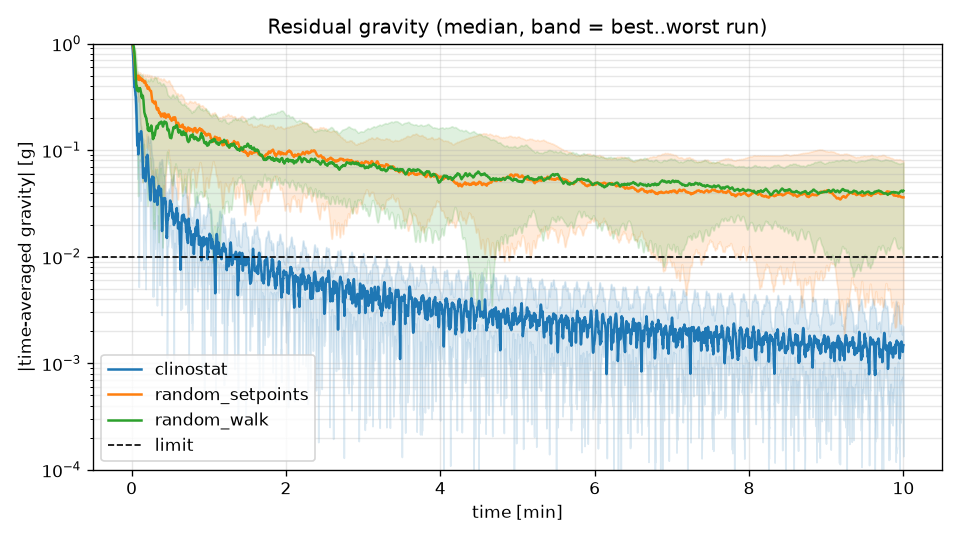
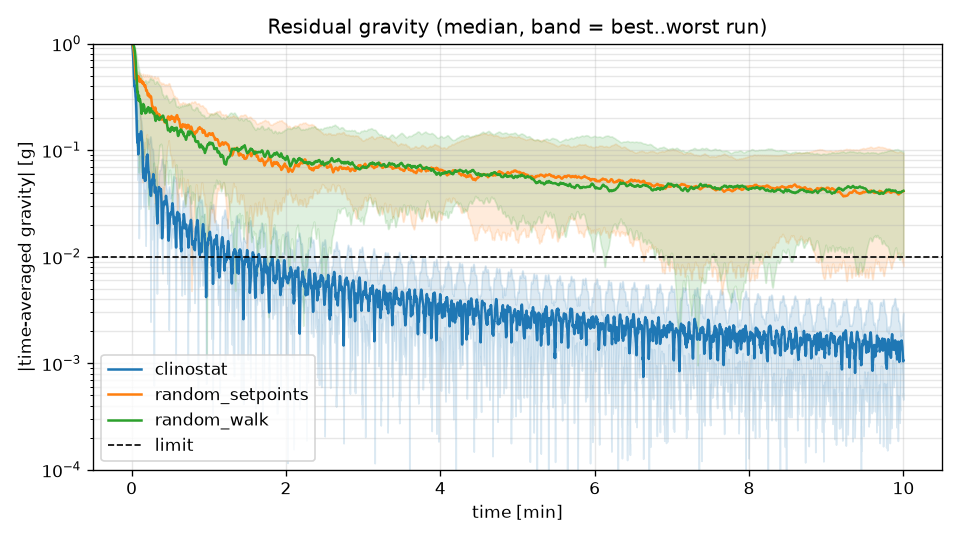
docs(sim): fix criteria references and refresh results for PLAN servo defaults
Review finding B6: report.py and test_simulation.py pointed at
acceptance criteria in docs/interfaces.md, which has none; they live
in docs/api.md. Regenerated results/ and the ADR 0002 table for the
83 rpm / +-350 us servo curve, and added a max-speed sweep that answers
the question whether 120 deg/s is needed (it is not, 60 deg/s passes).

Changed region(s): [[0.125, 0.0889, 0.9688, 0.8593]]

diff --git a/simulation/jannik/rpm/sim/report.py b/simulation/jannik/rpm/sim/report.py
@@ -117,7 +117,7 @@ def write_report(summaries: list[StrategySummary], out_dir: Path, duration_s: fl
         f"{runs} runs per strategy (nominal servo model plus the four corners of the error "
         "envelope: +-20 % speed, +-15 us dead-band shift, 3 % noise, several seeds).",
         "",
-        f"Criteria (docs/interfaces.md): residual gravity < {RESIDUAL_LIMIT_G} g in *every* run, "
+        f"Criteria (docs/api.md): residual gravity < {RESIDUAL_LIMIT_G} g in *every* run, "
         f"coverage ratio of every cell within [{COVERAGE_LIMITS[0]}, {COVERAGE_LIMITS[1]}].",
         "",
         "| Strategy | median residual [g] | worst residual [g] | coverage min..max | pass |",

diff --git a/simulation/jannik/tests/test_simulation.py b/simulation/jannik/tests/test_simulation.py
@@ -1,6 +1,6 @@
 """End-to-end checks of controller + plant, including the acceptance criteria.
 
-The criteria themselves are defined in docs/interfaces.md. The testing team
+The criteria themselves are defined in docs/api.md. The testing team
 owns the formal acceptance tests in testing/; these are the simulation team's
 own guard rails so a change that breaks the criteria fails here first.
 """

diff --git a/simulation/jannik/docs/adr/0002-clinostat-default-strategy.md b/simulation/jannik/docs/adr/0002-clinostat-default-strategy.md
@@ -17,9 +17,21 @@ From `rpm-sim compare` (25 runs of 10 min per strategy, see [`results/`](../../r
 
 | Strategy | median residual | worst residual | coverage |
 |---|---:|---:|---|
-| `clinostat` | 0.0015 g | 0.0021 g | 0.58–2.04 |
-| `random_setpoints` | 0.036 g | 0.080 g | 0.40–2.23 |
-| `random_walk` | 0.042 g | 0.077 g | 0.41–2.32 |
+| `clinostat` | 0.0011 g | 0.0030 g | 0.60–2.10 |
+| `random_setpoints` | 0.041 g | 0.094 g | 0.44–2.33 |
+| `random_walk` | 0.042 g | 0.098 g | 0.41–2.40 |
+
+Speed matters less than the strategy (30 runs each: envelope corners plus nominal, seeds 1–5):
+
+| max speed | `clinostat` worst | `random_walk` worst |
+|---:|---:|---:|
+| 30 °/s | 0.011 g | 0.19 g |
+| 60 °/s | 0.0046 g | 0.10 g |
+| 90 °/s | 0.0026 g | 0.090 g |
+| 120 °/s | 0.0030 g | 0.098 g |
+
+So the clinostat would also pass at 60 °/s, half the servo's maximum, if the team prefers to
+spare the gears; random motion fails at every speed.
 
 1. **Random motion averages slowly.** Full revolutions at constant speed cancel almost exactly
    every turn; random speed and direction changes leave a residual that shrinks only slowly

diff --git a/simulation/jannik/results/README.md b/simulation/jannik/results/README.md
@@ -2,13 +2,13 @@
 
 Generated by `rpm-sim compare`: 10 min simulated per run, 25 runs per strategy (nominal servo model plus the four corners of the error envelope: +-20 % speed, +-15 us dead-band shift, 3 % noise, several seeds).
 
-Criteria (docs/interfaces.md): residual gravity < 0.01 g in *every* run, coverage ratio of every cell within [0.5, 2.5].
+Criteria (docs/api.md): residual gravity < 0.01 g in *every* run, coverage ratio of every cell within [0.5, 2.5].
 
 | Strategy | median residual [g] | worst residual [g] | coverage min..max | pass |
 |---|---:|---:|---|:---:|
-| `clinostat` | 0.0015 | 0.0021 | 0.58..2.04 | yes |
-| `random_setpoints` | 0.0360 | 0.0798 | 0.40..2.23 | no |
-| `random_walk` | 0.0416 | 0.0765 | 0.41..2.32 | no |
+| `clinostat` | 0.0011 | 0.0030 | 0.60..2.10 | yes |
+| `random_setpoints` | 0.0411 | 0.0941 | 0.44..2.33 | no |
+| `random_walk` | 0.0415 | 0.0984 | 0.41..2.40 | no |
 
 ![Residual gravity](residual.png)
 

diff --git a/simulation/jannik/docs/api.md b/simulation/jannik/docs/api.md
@@ -72,4 +72,4 @@ that, the geometry gives the directions along the inner axis about twice their s
 
 Each point is `[pulse_us, axis_deg_s]`, signed by the right-hand rule. Points with `0.0` mark the
 dead band, the drive stops in its middle. Speeds must be monotone in pulse width and reach both
-directions. Without the file the firmware uses datasheet values (about 150 deg/s at full speed).
+directions. Without the file the firmware uses the PLAN 2.5 assumptions (83 rpm, about 125 deg/s at full speed).
